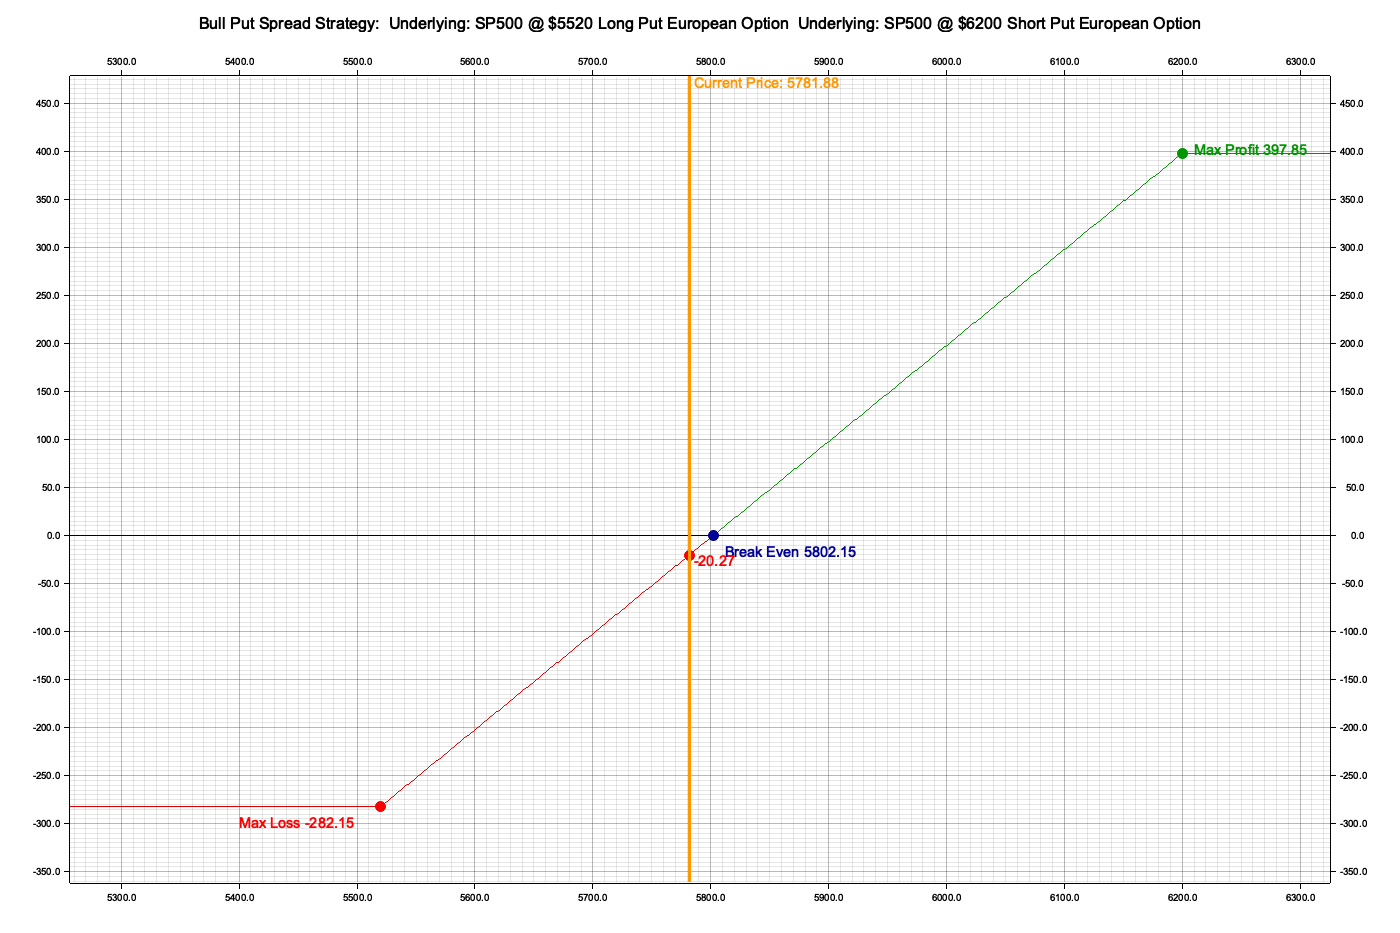
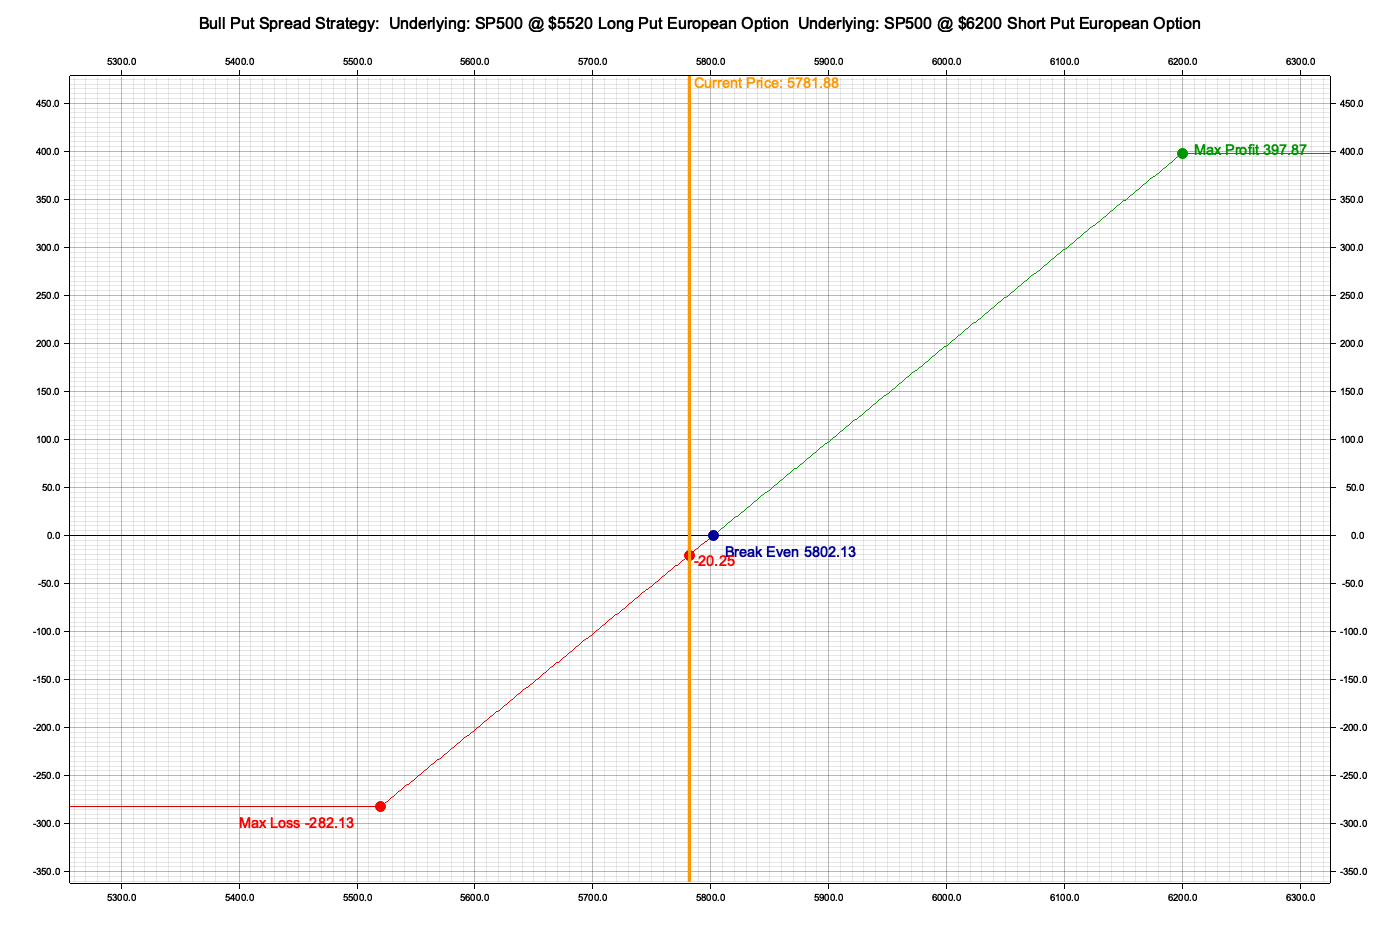
Refactor bull put spread optimization logic.
Simplified the strategy optimization loop by introducing a `filter_combinations` helper method, reducing repetitive checks and improving code readability. Adjusted fee parameters and updated relevant tests for consistency with the refactored logic.  (ref. #61)

diff --git a/src/strategies/bull_put_spread.rs b/src/strategies/bull_put_spread.rs
@@ -14,7 +14,6 @@ Key characteristics:
 - Maximum profit achieved when price stays above higher strike
 - Also known as a vertical put credit spread
 */
-
 use super::base::{Optimizable, Positionable, Strategies, StrategyType, Validable};
 use crate::chains::chain::{OptionChain, OptionData};
 use crate::chains::StrategyLegs;
@@ -151,6 +150,32 @@ impl BullPutSpread {
 
         strategy
     }
+
+    fn filter_combinations<'a>(
+        &'a self,
+        option_chain: &'a OptionChain,
+        side: FindOptimalSide,
+    ) -> impl Iterator<Item = (&'a OptionData, &'a OptionData)> {
+        let underlying_price = self.get_underlying_price();
+        let strategy = self.clone();
+        option_chain
+            .get_double_iter()
+            .filter(move |&option| {
+                option.0.is_valid_optimal_side(underlying_price, &side)
+                    && option.1.is_valid_optimal_side(underlying_price, &side)
+            })
+            .filter(|(long, short)| {
+                long.put_ask.unwrap_or(PZERO) > PZERO && short.put_bid.unwrap_or(PZERO) > PZERO
+            })
+            .filter(move |(long_option, short_option)| {
+                let legs = StrategyLegs::TwoLegs {
+                    first: long_option,
+                    second: short_option,
+                };
+                let strategy = strategy.create_strategy(option_chain, &legs);
+                strategy.validate() && strategy.max_profit().is_ok() && strategy.max_loss().is_ok()
+            })
+    }
 }
 
 impl Positionable for BullPutSpread {
@@ -262,76 +287,27 @@ impl Optimizable for BullPutSpread {
         side: FindOptimalSide,
         criteria: OptimizationCriteria,
     ) {
-        let options: Vec<&OptionData> = option_chain.options.iter().collect();
         let mut best_value = f64::NEG_INFINITY;
+        let strategy_clone = self.clone();
+        let options_iter = strategy_clone.filter_combinations(option_chain, side);
 
-        for long_index in 0..options.len() {
-            let long_option = &options[long_index];
+        for (long_option, short_option) in options_iter {
+            let legs = StrategyLegs::TwoLegs {
+                first: long_option,
+                second: short_option,
+            };
+            let strategy = self.create_strategy(option_chain, &legs);
+            let current_value = match criteria {
+                OptimizationCriteria::Ratio => strategy.profit_ratio(),
+                OptimizationCriteria::Area => strategy.profit_area(),
+            };
 
-            for short_option in &options[long_index + 1..] {
-                if !self.is_valid_long_option(long_option, &side)
-                    || !self.is_valid_short_option(short_option, &side)
-                {
-                    debug!(
-                        "Invalid options Asset {} - Long({}) Short({})",
-                        option_chain.underlying_price,
-                        long_option.strike_price,
-                        short_option.strike_price,
-                    );
-                    continue;
-                }
-
-                let legs = StrategyLegs::TwoLegs {
-                    first: long_option,
-                    second: short_option,
-                };
-
-                if !self.are_valid_prices(&legs) {
-                    debug!(
-                        "Invalid prices - Long({}): {:?} Short({}): {:?}",
-                        long_option.strike_price,
-                        long_option.put_ask,
-                        short_option.strike_price,
-                        short_option.put_bid
-                    );
-                    continue;
-                }
-
-                let strategy = self.create_strategy(option_chain, &legs);
-
-                if !strategy.validate() {
-                    debug!("Invalid strategy");
-                    continue;
-                }
-
-                if strategy.max_profit().is_err() || strategy.max_loss().is_err() {
-                    debug!(
-                        "Invalid profit {} loss {}",
-                        strategy.max_profit().unwrap_or(PZERO),
-                        strategy.max_loss().unwrap_or(PZERO)
-                    );
-                    continue;
-                }
-
-                let current_value = match criteria {
-                    OptimizationCriteria::Ratio => strategy.profit_ratio(),
-                    OptimizationCriteria::Area => strategy.profit_area(),
-                };
-
-                if current_value > best_value {
-                    best_value = current_value;
-                    *self = strategy.clone();
-                }
+            if current_value > best_value {
+                debug!("Found better value: {}", current_value);
+                best_value = current_value;
+                *self = strategy.clone();
             }
         }
-    }
-
-    fn are_valid_prices(&self, legs: &StrategyLegs) -> bool {
-        let (long, short) = match legs {
-            StrategyLegs::TwoLegs { first, second } => (first, second),
-            _ => panic!("Invalid number of legs for this strategy"),
-        };
-        long.put_ask.unwrap_or(PZERO) > PZERO && short.put_bid.unwrap_or(PZERO) > PZERO
     }
 
     fn create_strategy(&self, chain: &OptionChain, legs: &StrategyLegs) -> Self::Strategy {
@@ -1103,7 +1079,6 @@ mod tests_bull_put_spread_optimization {
 
     #[test]
     fn test_are_valid_prices() {
-        let spread = create_base_spread();
         let long_option = OptionData::new(
             pos!(90.0),
             None,
@@ -1127,11 +1102,10 @@ mod tests_bull_put_spread_optimization {
             Some(50),
         );
 
-        let legs = StrategyLegs::TwoLegs {
-            first: &long_option,
-            second: &short_option,
-        };
-        assert!(spread.are_valid_prices(&legs));
+        assert!(
+            long_option.put_ask.unwrap_or(PZERO) > PZERO
+                && short_option.put_bid.unwrap_or(PZERO) > PZERO
+        );
     }
 
     #[test]

diff --git a/examples/examples_strategies_best/src/bin/strategy_bull_put_spread_best_area.rs b/examples/examples_strategies_best/src/bin/strategy_bull_put_spread_best_area.rs
@@ -29,8 +29,8 @@ fn main() -> Result<(), Box<dyn Error>> {
         pos!(1.0), // quantity
         ZERO,      // premium_short_call
         ZERO,      // premium_short_put
-        0.82,      // open_fee_short_call
-        0.82,      // close_fee_short_call
+        0.81,      // open_fee_short_call
+        0.81,      // close_fee_short_call
         0.82,      // open_fee_short_put
         0.82,      // close_fee_short_put
     );
